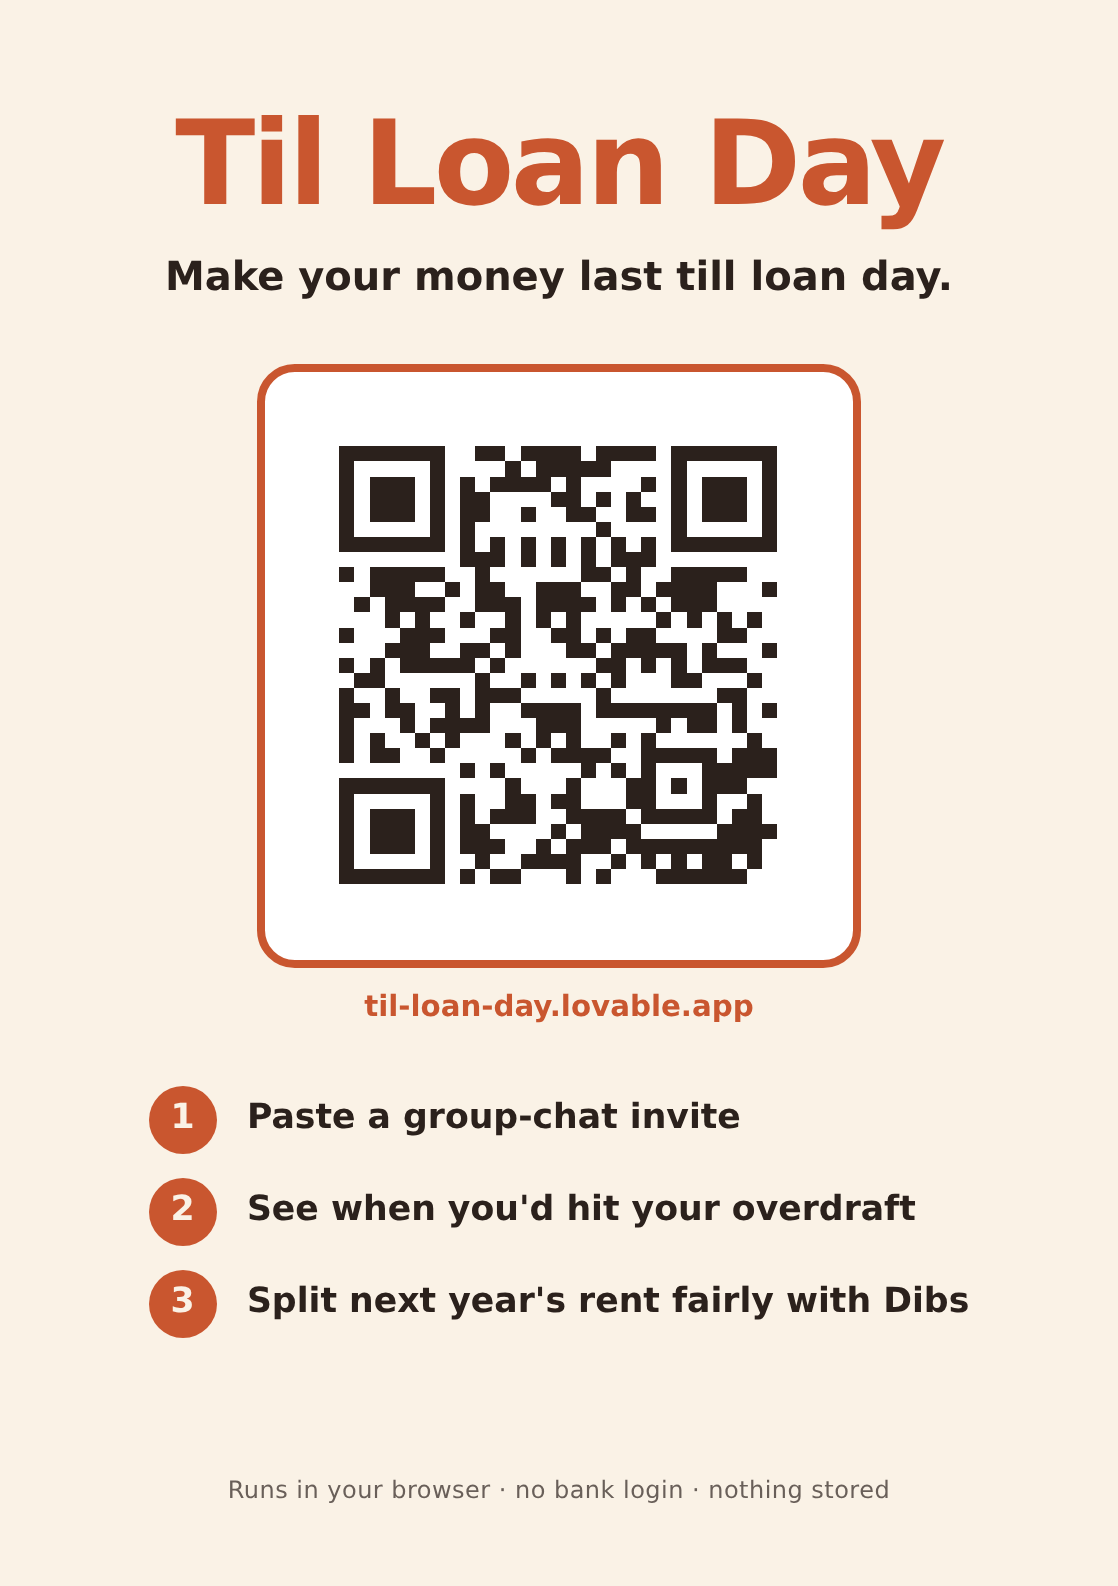
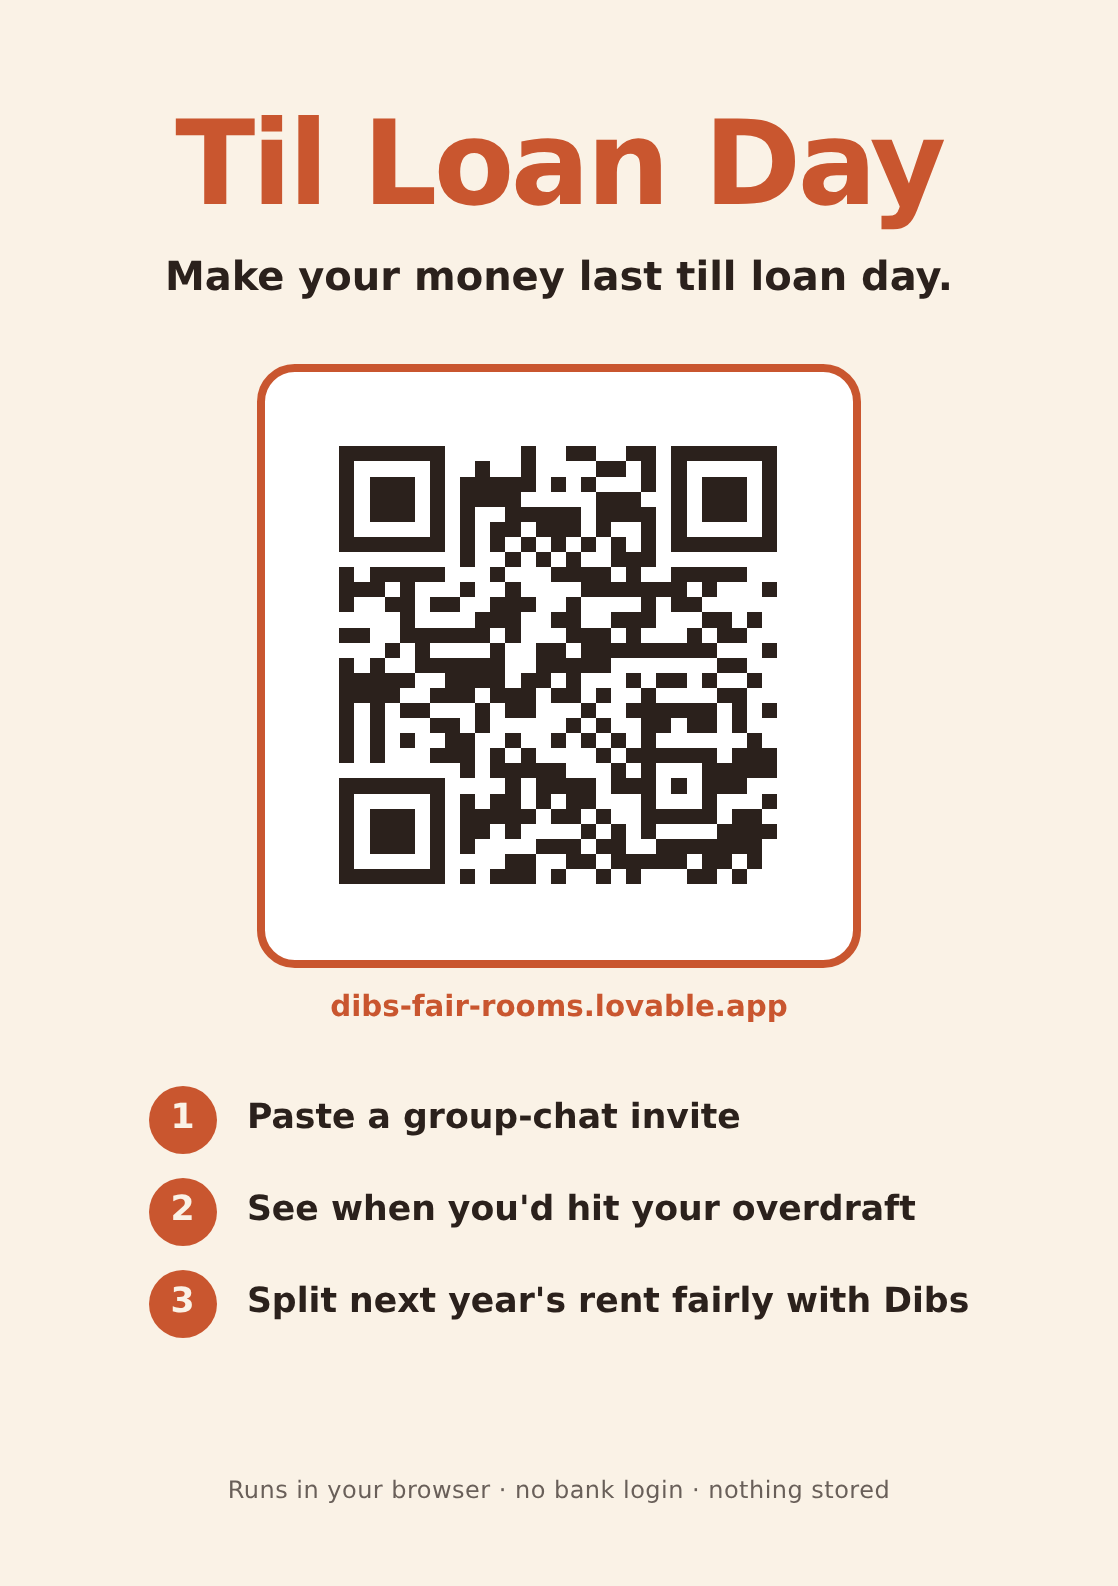
Point desk card QR at the live URL from README

diff --git a/docs/desk-card.html b/docs/desk-card.html
@@ -100,8 +100,8 @@
 <main class="card">
   <h1 class="wordmark">Til Loan Day</h1>
   <p class="tagline">Make your money last till loan day.</p>
-  <div class="qr"><svg role="img" aria-label="QR code for https://til-loan-day.lovable.app" xmlns="http://www.w3.org/2000/svg" viewBox="0 0 37 37" shape-rendering="crispEdges"><path fill="#ffffff" d="M0 0h37v37H0z"/><path stroke="#2b211c" d="M4 4.5h7m2 0h2m1 0h4m1 0h4m1 0h7M4 5.5h1m5 0h1m4 0h1m1 0h5m4 0h1m5 0h1M4 6.5h1m1 0h3m1 0h1m1 0h1m1 0h4m1 0h1m4 0h1m1 0h1m1 0h3m1 0h1M4 7.5h1m1 0h3m1 0h1m1 0h2m4 0h2m1 0h1m1 0h1m2 0h1m1 0h3m1 0h1M4 8.5h1m1 0h3m1 0h1m1 0h2m2 0h1m2 0h2m2 0h2m1 0h1m1 0h3m1 0h1M4 9.5h1m5 0h1m1 0h1m8 0h1m4 0h1m5 0h1M4 10.5h7m1 0h1m1 0h1m1 0h1m1 0h1m1 0h1m1 0h1m1 0h1m1 0h7M12 11.5h3m1 0h1m1 0h1m1 0h1m1 0h3M4 12.5h1m1 0h5m2 0h1m6 0h2m1 0h1m2 0h5M6 13.5h3m2 0h1m1 0h2m2 0h3m2 0h2m1 0h4m3 0h1M5 14.5h1m1 0h4m2 0h3m1 0h4m1 0h1m1 0h1m1 0h3M7 15.5h1m1 0h1m2 0h1m2 0h1m1 0h1m1 0h1m5 0h1m1 0h1m1 0h1m1 0h1M4 16.5h1m3 0h3m3 0h2m2 0h2m1 0h1m1 0h2m4 0h2M7 17.5h3m2 0h2m1 0h1m3 0h2m1 0h5m1 0h1m3 0h1M4 18.5h1m1 0h1m1 0h5m1 0h1m6 0h2m1 0h1m1 0h1m1 0h3M5 19.5h2m6 0h1m2 0h1m1 0h1m1 0h1m1 0h1m3 0h2m3 0h1M4 20.5h1m2 0h1m2 0h2m1 0h3m5 0h1m7 0h2M4 21.5h2m1 0h2m2 0h1m1 0h1m2 0h4m1 0h8m1 0h1m1 0h1M4 22.5h1m3 0h1m1 0h4m3 0h3m5 0h1m1 0h2m1 0h1M4 23.5h1m1 0h1m2 0h1m1 0h1m3 0h1m1 0h1m1 0h1m2 0h1m1 0h1m6 0h1M4 24.5h1m1 0h2m2 0h1m5 0h1m1 0h4m2 0h5m1 0h3M12 25.5h1m1 0h1m5 0h1m1 0h1m1 0h1m3 0h5M4 26.5h7m4 0h1m3 0h1m3 0h2m1 0h1m1 0h3M4 27.5h1m5 0h1m1 0h1m2 0h2m1 0h2m3 0h2m3 0h1m2 0h1M4 28.5h1m1 0h3m1 0h1m1 0h1m1 0h3m2 0h4m1 0h5m1 0h2M4 29.5h1m1 0h3m1 0h1m1 0h2m4 0h1m1 0h4m5 0h4M4 30.5h1m1 0h3m1 0h1m1 0h3m2 0h1m1 0h3m1 0h9M4 31.5h1m5 0h1m2 0h1m2 0h4m2 0h1m1 0h1m1 0h1m1 0h2m1 0h1M4 32.5h7m1 0h1m1 0h2m3 0h1m1 0h1m3 0h6"/></svg></div>
-  <p class="url">til-loan-day.lovable.app</p>
+  <div class="qr"><svg role="img" aria-label="QR code for https://dibs-fair-rooms.lovable.app" xmlns="http://www.w3.org/2000/svg" viewBox="0 0 37 37" shape-rendering="crispEdges"><path fill="#ffffff" d="M0 0h37v37H0z"/><path stroke="#2b211c" d="M4 4.5h7m5 0h1m2 0h2m2 0h2m1 0h7M4 5.5h1m5 0h1m2 0h1m2 0h1m4 0h2m1 0h1m1 0h1m5 0h1M4 6.5h1m1 0h3m1 0h1m1 0h5m1 0h1m1 0h1m3 0h1m1 0h1m1 0h3m1 0h1M4 7.5h1m1 0h3m1 0h1m1 0h4m5 0h3m2 0h1m1 0h3m1 0h1M4 8.5h1m1 0h3m1 0h1m1 0h1m2 0h5m1 0h4m1 0h1m1 0h3m1 0h1M4 9.5h1m5 0h1m1 0h1m1 0h2m1 0h3m1 0h1m2 0h1m1 0h1m5 0h1M4 10.5h7m1 0h1m1 0h1m1 0h1m1 0h1m1 0h1m1 0h1m1 0h1m1 0h7M12 11.5h1m2 0h1m1 0h1m1 0h1m2 0h3M4 12.5h1m1 0h5m3 0h1m3 0h4m1 0h1m2 0h5M4 13.5h3m1 0h1m3 0h1m2 0h1m4 0h7m1 0h1m3 0h1M4 14.5h1m2 0h2m1 0h2m2 0h3m2 0h1m4 0h1m1 0h2M8 15.5h1m4 0h3m2 0h2m2 0h3m3 0h2m1 0h1M4 16.5h2m2 0h6m1 0h1m3 0h3m1 0h1m3 0h1m1 0h2M7 17.5h1m1 0h1m4 0h1m2 0h2m1 0h9m3 0h1M4 18.5h1m1 0h1m2 0h6m2 0h5m7 0h2M4 19.5h5m2 0h4m1 0h2m1 0h1m3 0h1m1 0h2m1 0h1m2 0h1M4 20.5h4m2 0h3m1 0h3m1 0h2m1 0h1m2 0h1m4 0h2M4 21.5h1m1 0h1m1 0h2m3 0h1m1 0h2m3 0h1m2 0h6m1 0h1m1 0h1M4 22.5h1m1 0h1m3 0h2m1 0h1m5 0h1m1 0h1m2 0h2m1 0h2m1 0h1M4 23.5h1m1 0h1m1 0h1m2 0h2m2 0h1m2 0h1m1 0h1m1 0h1m1 0h1m6 0h1M4 24.5h1m1 0h1m3 0h3m1 0h1m1 0h1m4 0h1m1 0h6m1 0h3M12 25.5h1m1 0h5m3 0h1m1 0h1m3 0h5M4 26.5h7m4 0h1m1 0h4m1 0h3m1 0h1m1 0h3M4 27.5h1m5 0h1m1 0h1m1 0h2m1 0h1m1 0h2m3 0h1m3 0h1m3 0h1M4 28.5h1m1 0h3m1 0h1m1 0h5m1 0h2m1 0h1m2 0h5m1 0h2M4 29.5h1m1 0h3m1 0h1m1 0h2m1 0h1m4 0h1m1 0h1m1 0h1m4 0h4M4 30.5h1m1 0h3m1 0h1m1 0h1m4 0h3m1 0h2m2 0h7M4 31.5h1m5 0h1m4 0h2m2 0h2m1 0h5m1 0h2m1 0h1M4 32.5h7m1 0h1m1 0h3m1 0h1m2 0h1m1 0h1m3 0h2m1 0h1"/></svg></div>
+  <p class="url">dibs-fair-rooms.lovable.app</p>
   <ol class="steps">
     <li><span class="n" aria-hidden="true">1</span>Paste a group-chat invite</li>
     <li><span class="n" aria-hidden="true">2</span>See when you&#39;d hit your overdraft</li>
